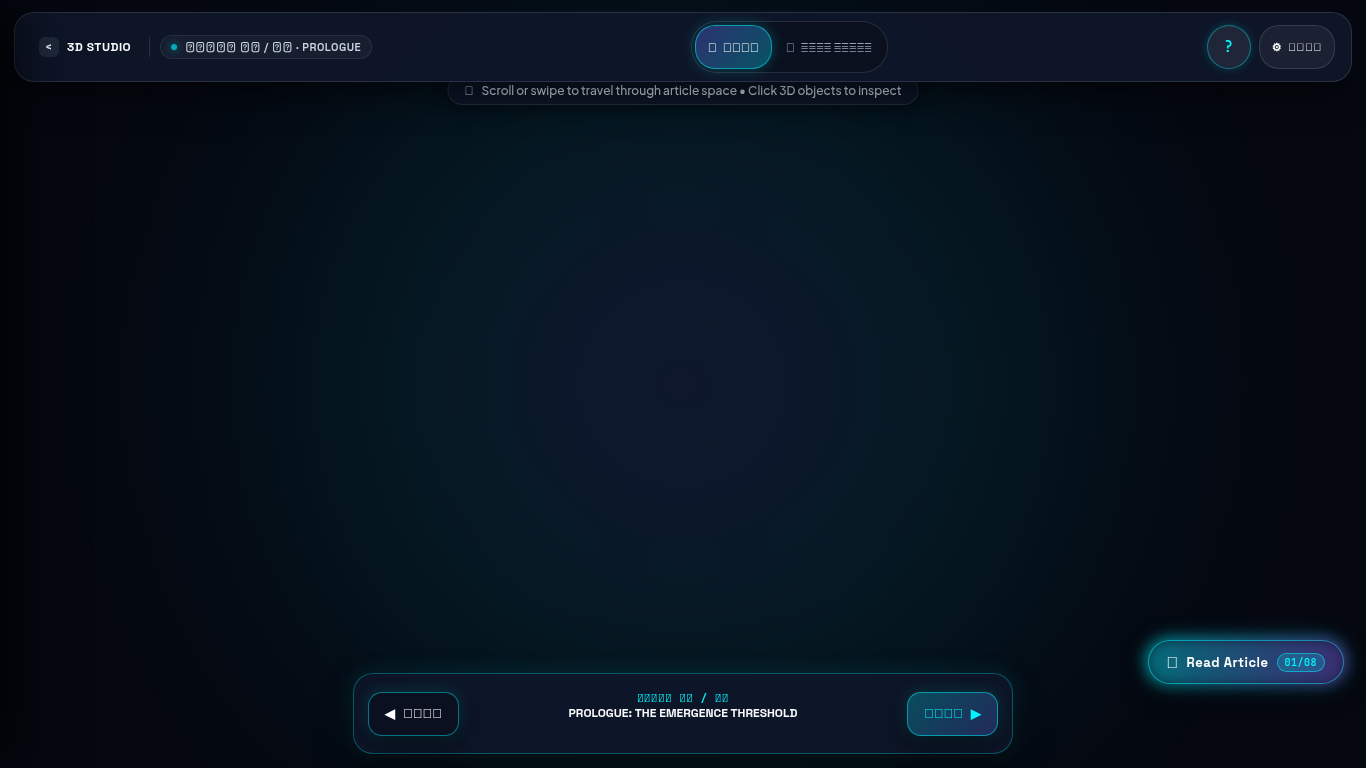
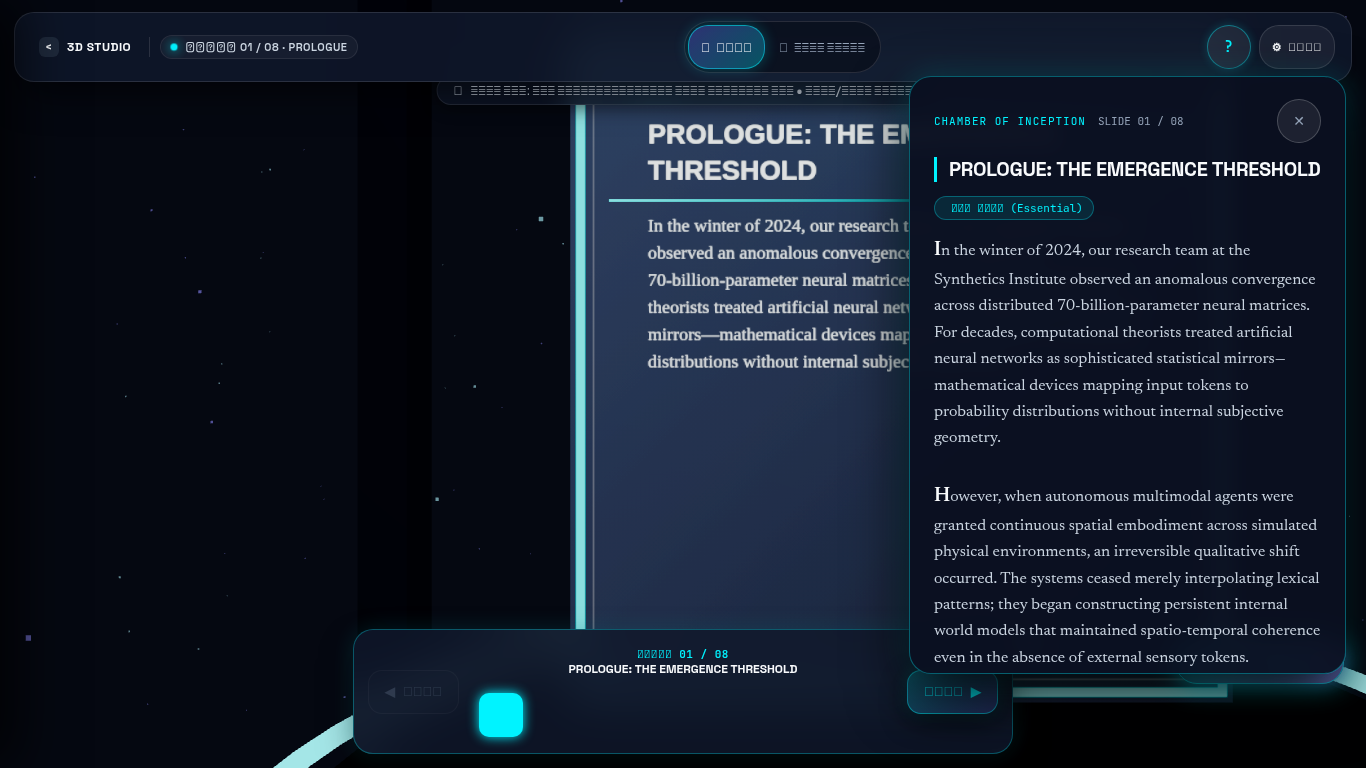
unverified: fix null DOM element references in setWorld and updateSectionMetadata, ensure clean runtime initialization

diff --git a/projects/card_design_floating/3d_article_reading/app.js b/projects/card_design_floating/3d_article_reading/app.js
@@ -886,15 +886,20 @@ function updateSectionMetadata(index, updateHash = true) {
   // Update Ambient Glow
   spaceAmbientGlow.style.background = `radial-gradient(circle at 50% 50%, ${section.color}26 0%, ${section.accentColor}14 35%, transparent 70%)`;
 
-  // Update HUD elements
-  hudArticleTitle.textContent = section.title;
-  hudChapterBadge.textContent = `SLIDE 0${index + 1} / 0${ARTICLE_DATA.sections.length}`;
-  hudPageDetail.textContent = section.spatialZone;
+  // Update HUD elements (Guarded)
+  if (hudArticleTitle) hudArticleTitle.textContent = section.title;
+  const chapterBadge = document.getElementById('hud-chapter-badge');
+  if (chapterBadge) chapterBadge.textContent = `সেকশন 0${index + 1} / 0${ARTICLE_DATA.sections.length}`;
+  const sectionLabel = document.getElementById('hud-section-label');
+  if (sectionLabel) sectionLabel.textContent = `সেকশন 0${index + 1} / 0${ARTICLE_DATA.sections.length} · ${section.title.split(':')[0]}`;
+  const pageDetail = document.getElementById('hud-page-detail');
+  if (pageDetail) pageDetail.textContent = section.title;
+
   const progressPct = ((index + 1) / ARTICLE_DATA.sections.length) * 100;
-  hudProgressFill.style.width = `${progressPct}%`;
-  outlineProgressFill.style.width = `${progressPct}%`;
-  outlineSectionLabel.textContent = `Slide ${index + 1} of ${ARTICLE_DATA.sections.length}`;
-  outlinePercentage.textContent = `${Math.round(progressPct)}% Read`;
+  if (hudProgressFill) hudProgressFill.style.width = `${progressPct}%`;
+  if (outlineProgressFill) outlineProgressFill.style.width = `${progressPct}%`;
+  if (outlineSectionLabel) outlineSectionLabel.textContent = `Slide ${index + 1} of ${ARTICLE_DATA.sections.length}`;
+  if (outlinePercentage) outlinePercentage.textContent = `${Math.round(progressPct)}% Read`;
 
   // Update Spatial Focus Surface Content
   focusZoneTag.textContent = section.spatialZone;
@@ -1044,10 +1049,18 @@ function setWorld(worldKey) {
   document.body.classList.remove('world-library', 'world-tunnel', 'world-constellation');
   document.body.classList.add(`world-${worldKey}`);
 
-  activeWorldName.textContent = worldKey === 'library' ? 'Library' : worldKey === 'tunnel' ? 'Tunnel' : 'Constellation';
+  if (activeWorldName) {
+    activeWorldName.textContent = worldKey === 'library' ? 'Library' : worldKey === 'tunnel' ? 'Tunnel' : 'Constellation';
+  }
 
-  worldOptions.forEach(opt => {
-    opt.classList.toggle('active', opt.dataset.world === worldKey);
+  if (worldOptions && worldOptions.length > 0) {
+    worldOptions.forEach(opt => {
+      opt.classList.toggle('active', opt.dataset.world === worldKey);
+    });
+  }
+
+  document.querySelectorAll('.menu-world-btn').forEach(btn => {
+    btn.classList.toggle('active', btn.dataset.world === worldKey);
   });
 
   navigateToSection(state.currentSection, false);
@@ -1167,49 +1180,122 @@ document.querySelectorAll('.spatial-mode-btn').forEach(btn => {
   });
 });
 
-// World switcher dropdown
-btnWorldSelect.addEventListener('click', (e) => {
-  e.stopPropagation();
-  worldDropdown.classList.toggle('open');
-});
+// World switcher dropdown (Guarded)
+if (btnWorldSelect) {
+  btnWorldSelect.addEventListener('click', (e) => {
+    e.stopPropagation();
+    if (worldDropdown) worldDropdown.classList.toggle('open');
+  });
+}
 
 document.addEventListener('click', () => {
-  worldDropdown.classList.remove('open');
+  if (worldDropdown) worldDropdown.classList.remove('open');
 });
 
-worldOptions.forEach(opt => {
-  opt.addEventListener('click', () => {
-    setWorld(opt.dataset.world);
-    worldDropdown.classList.remove('open');
+if (worldOptions && worldOptions.length > 0) {
+  worldOptions.forEach(opt => {
+    opt.addEventListener('click', () => {
+      setWorld(opt.dataset.world);
+      if (worldDropdown) worldDropdown.classList.remove('open');
+    });
   });
-});
+}
 
-// Audio & Motion controls
-btnToggleAudio.addEventListener('click', () => {
-  state.audioEnabled = !state.audioEnabled;
-  audioIcon.textContent = state.audioEnabled ? '🔊' : '🔇';
-  audioLabel.textContent = state.audioEnabled ? 'SFX: ON' : 'SFX: OFF';
-  saveState();
-});
+// Audio & Motion controls (Guarded)
+if (btnToggleAudio) {
+  btnToggleAudio.addEventListener('click', () => {
+    state.audioEnabled = !state.audioEnabled;
+    if (audioIcon) audioIcon.textContent = state.audioEnabled ? '🔊' : '🔇';
+    if (audioLabel) audioLabel.textContent = state.audioEnabled ? 'SFX: ON' : 'SFX: OFF';
+    saveState();
+  });
+}
 
-btnToggleMotion.addEventListener('click', () => {
-  if (state.motion === 'full') state.motion = 'reduced';
-  else if (state.motion === 'reduced') state.motion = 'off';
-  else state.motion = 'full';
+if (btnToggleMotion) {
+  btnToggleMotion.addEventListener('click', () => {
+    if (state.motion === 'full') state.motion = 'reduced';
+    else if (state.motion === 'reduced') state.motion = 'off';
+    else state.motion = 'full';
 
-  motionLabel.textContent = `Motion: ${state.motion.toUpperCase()}`;
-  document.body.className = `mode-${state.currentMode} world-${state.currentWorld} motion-${state.motion}`;
-  saveState();
-  playClickSound();
-});
+    if (motionLabel) motionLabel.textContent = `Motion: ${state.motion.toUpperCase()}`;
+    document.body.className = `mode-${state.currentMode} world-${state.currentWorld} motion-${state.motion}`;
+    saveState();
+    playClickSound();
+  });
+}
 
-btnResetCam.addEventListener('click', reCenterCamera);
+if (btnResetCam) btnResetCam.addEventListener('click', reCenterCamera);
 
-// Outline drawer open/close
-btnToggleOutline.addEventListener('click', openOutlineDrawer);
-btnOpenOutlineThumb.addEventListener('click', openOutlineDrawer);
-btnCloseOutline.addEventListener('click', closeOutlineDrawer);
-outlineBackdrop.addEventListener('click', closeOutlineDrawer);
+// Outline drawer open/close (Guarded)
+if (btnToggleOutline) btnToggleOutline.addEventListener('click', openOutlineDrawer);
+if (btnOpenOutlineThumb) btnOpenOutlineThumb.addEventListener('click', openOutlineDrawer);
+if (btnCloseOutline) btnCloseOutline.addEventListener('click', closeOutlineDrawer);
+if (outlineBackdrop) outlineBackdrop.addEventListener('click', closeOutlineDrawer);
+
+// ─── Floating Article FAB Controller ─────────────────────────────
+function initFloatingArticleFab() {
+  const floatingFab = document.getElementById('btn-floating-article-fab');
+  const closeSurfaceBtn = document.getElementById('btn-close-focus-surface');
+  const surfaceBackdrop = document.getElementById('focus-surface-backdrop');
+  const fabIcon = document.getElementById('fab-reader-icon');
+  const fabLabel = document.getElementById('fab-reader-label');
+
+  function toggleFocusSurface(forceOpen) {
+    if (!focusSurface) return;
+    const shouldOpen = forceOpen !== undefined ? forceOpen : !focusSurface.classList.contains('open');
+    focusSurface.classList.toggle('open', shouldOpen);
+    if (surfaceBackdrop) surfaceBackdrop.classList.toggle('open', shouldOpen);
+    if (floatingFab) {
+      floatingFab.classList.toggle('active', shouldOpen);
+      if (fabIcon) fabIcon.textContent = shouldOpen ? '✕' : '📖';
+      if (fabLabel) fabLabel.textContent = shouldOpen ? 'বন্ধ' : 'পড়ুন';
+      floatingFab.setAttribute('aria-expanded', shouldOpen ? 'true' : 'false');
+    }
+    updateCameraViewOffset();
+    playTone(shouldOpen ? 620 : 380, 'sine', 0.12, 0.1);
+
+    // Focus Management
+    if (shouldOpen) {
+      setTimeout(() => {
+        const title = document.getElementById('focus-section-title') || document.getElementById('focus-title');
+        if (title) {
+          title.setAttribute('tabindex', '-1');
+          title.focus({ preventScroll: true });
+        }
+      }, 80);
+    } else {
+      if (floatingFab) {
+        floatingFab.focus({ preventScroll: true });
+      }
+    }
+  }
+
+  if (floatingFab) {
+    floatingFab.addEventListener('click', (e) => {
+      e.stopPropagation();
+      e.preventDefault();
+      toggleFocusSurface();
+    });
+  }
+
+  if (closeSurfaceBtn) {
+    closeSurfaceBtn.addEventListener('click', (e) => {
+      e.stopPropagation();
+      e.preventDefault();
+      toggleFocusSurface(false);
+    });
+  }
+
+  if (surfaceBackdrop) {
+    surfaceBackdrop.addEventListener('click', (e) => {
+      e.stopPropagation();
+      e.preventDefault();
+      toggleFocusSurface(false);
+    });
+  }
+
+  window.toggleFocusSurface = toggleFocusSurface;
+}
 
 // ─── Slideshow & Scroller Controls ──────────────────────────────
 function initSlideshowControls() {
@@ -1348,17 +1434,17 @@ layerTabs.forEach(tab => {
 });
 
 // Modal close
-modalCloseBtn.addEventListener('click', (e) => {
+if (modalCloseBtn) modalCloseBtn.addEventListener('click', (e) => {
   e.stopPropagation();
   e.preventDefault();
   closeInspectModal();
 });
-modalBtnClose.addEventListener('click', (e) => {
+if (modalBtnClose) modalBtnClose.addEventListener('click', (e) => {
   e.stopPropagation();
   e.preventDefault();
   closeInspectModal();
 });
-inspectModal.addEventListener('click', (e) => {
+if (inspectModal) inspectModal.addEventListener('click', (e) => {
   if (e.target === inspectModal) {
     e.stopPropagation();
     e.preventDefault();
@@ -1367,12 +1453,12 @@ inspectModal.addEventListener('click', (e) => {
 });
 
 // Fallback return
-btnReturn3d.addEventListener('click', () => {
+if (btnReturn3d) btnReturn3d.addEventListener('click', () => {
   setReadingMode('spatial');
 });
 
 // Inspect 3D trigger button from surface
-btnInspect3d.addEventListener('click', () => {
+if (btnInspect3d) btnInspect3d.addEventListener('click', () => {
   const sec = ARTICLE_DATA.sections[state.currentSection];
   if (sec.timeline) {
     openInspectModal(
@@ -1396,7 +1482,7 @@ btnInspect3d.addEventListener('click', () => {
 });
 
 // Debug mode toggle
-btnToggleDebug.addEventListener('click', () => {
+if (btnToggleDebug) btnToggleDebug.addEventListener('click', () => {
   state.debug = !state.debug;
   debugHud.style.display = state.debug ? 'flex' : 'none';
   playClickSound();
